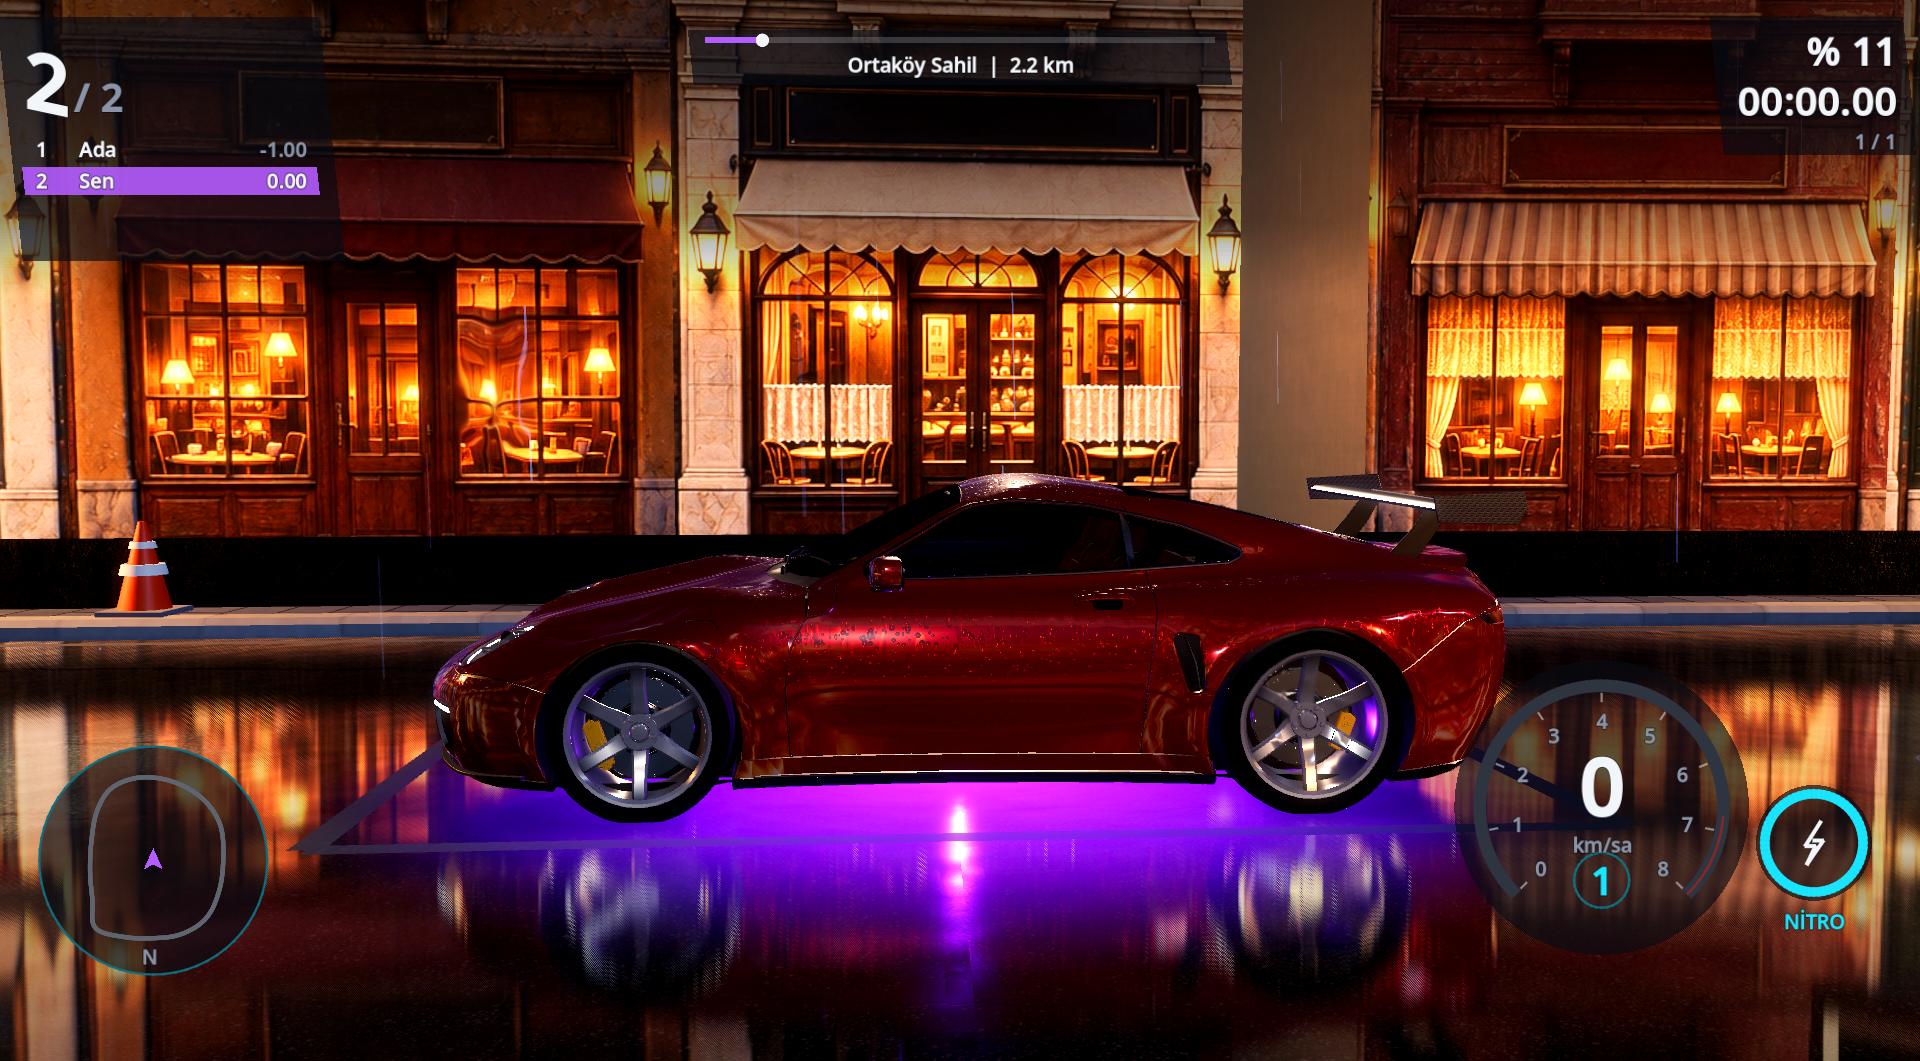
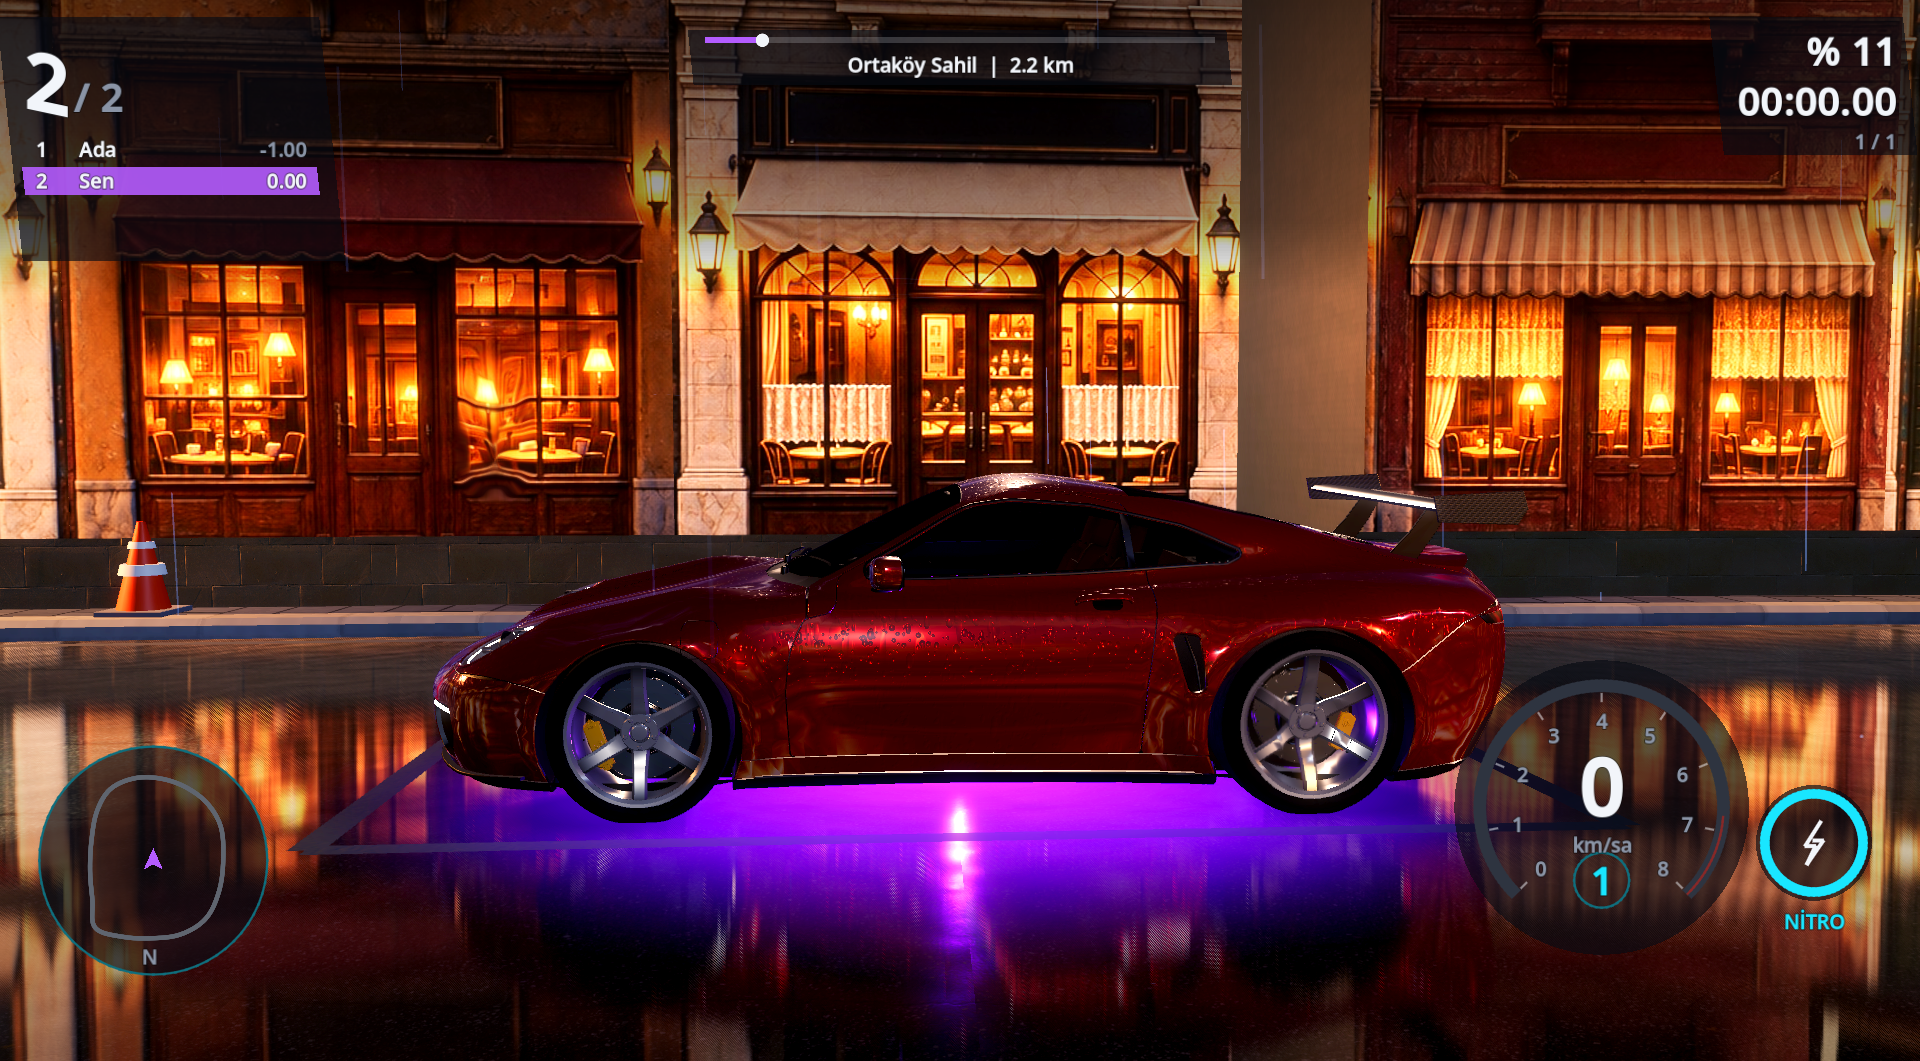
Online re-verified on the merged RC (smoke PASS, rendered client: both cars finished); release candidate report updated

diff --git a/docs/status/RELEASE_CANDIDATE_2026-11-28.md b/docs/status/RELEASE_CANDIDATE_2026-11-28.md
@@ -1,41 +1,55 @@
 # Release candidate 2026-11-28 (overnight)
 
-Branch: `release/rc-2026-11-28` (from `feature/vertical-slice` a4c30a1). Integration PR: see the PR link in the
-handoff. main untouched; no branch deleted; no force-push; ChatGPT branches untouched (PR #8 merged once, here only).
-Machine for every number below: dev PC, Windows 11, NVIDIA RTX 5060 Ti 8 GB, Godot 4.7.2 Mobile renderer. No iPhone
-was measured tonight: no number here is a phone number, and "App Store ready" is not claimed.
+Branch: `release/rc-2026-11-28` (from `feature/vertical-slice` a4c30a1). Integration PR:
+https://github.com/berkdemirokk/midnight-syndicate/pull/9 (draft, base feature/vertical-slice). main untouched; no branch
+deleted; no force-push; ChatGPT branches untouched (PR #8 merged once, here only).
+Machine for every number below: dev PC, Windows 11, NVIDIA RTX 5060 Ti 8 GB, Godot 4.7.2 Mobile renderer. No iPhone was
+measured tonight: no number here is a phone number, and "App Store ready" is NOT claimed.
+
+How the work was done: the lead (Opus 5.5) planned, did the lighting/sky/road pass itself and integrated. Every other
+change was a work package built by a Haiku 5.5 worker in its own git worktree, reviewed by an independent Haiku reviewer,
+then by an Opus lead reviewer (who re-ran tests and captures and fixed what they found), then merged by the lead. A final
+independent release review (5 finders + adversarial verifiers) found 7 real defects; all 7 were fixed before 05:00.
 
 ## What changed tonight
 | area | what | verified by |
 |---|---|---|
 | Integration | PR #8 (30 events, save safety, AI recovery, garage upgrades, time-trial economy, pursuit rules, CI evidence) merged once | 355 tests, 0 failed after the merge; PR #8 CI green |
-| Lighting | day/sunset: ACES white 6, afternoon sun 34 deg, 2-split sun shadow, real depth fog with aerial haze on the far shore, clear sky, street-dark ground half of the sky (no blue rims), warm car fill/rim, day fill direction bug fixed, mild grade | ortakoy_benchmark captures, before/after sheets |
-| Road | dry asphalt specular per hour (no blue sheen), roughness follows the macro tone, wet road in metre-scale patches with a softer mirror, mirror blur 9 -> 5 taps, kerb/sidewalk wet film and specular per hour, paint on the asphalt grain | captures day/sunset/night |
-| Cars | neutral rims (metal 0.75), tyre sheen, street panorama in the paint per hour | bench_*_car34 |
-| Architecture | photo rows: tangents, textured party walls and tile roofs, 0.8 m eaves with soffit and fascia, glass gloss, bridge day colours, plaster tone | bench_day_street / hero |
-| Camera | long-lens finish/grid orbit, horizontal FOV cap for wide phones, nitro punch (kick-back, FOV punch, blur burst), blur early-out | test_driver_camera, nitro capture |
-| AI | queued cars are not "stuck", recovery frees after 2 m either way, follow brake | telemetry matrix before/after (stuck 114 -> 66, teleports 76 -> 30, unfinished 11 -> 2) |
-| Online (experimental, off) | LAN race: lobby, ready, shared countdown, 20 Hz state, interpolation, server-authoritative laps/results, disconnect DNF, Bosphorus track, live standings, TR/EN | 3-process smoke + rendered in-game check |
-| Pursuit (experimental, off) | opt-in police mode: heat 1-5, police spawn/despawn, chase AI, roadblock with an open lane, bust/escape, HUD | 15 tests + pursuit_demo captures |
-| Performance | mirror diet (no glow/tonemap/shadow atlas/MSAA in the mirror), probes off on Low, shadow filter per preset, Medium FXAA | GPU_PASS_2026-11-28.md |
-| UX | (see below) | |
+| Lighting | day/sunset: ACES white 6, afternoon sun 34 deg, 2-split sun shadow, depth fog with haze on the far shore, clear sky, street-dark lower sky (no blue rims), warm car fill/rim, day fill direction bug fixed, arcade grade | evidence/screens/before_after_2026-11-28 |
+| Road | dry asphalt specular per hour, roughness from the macro tone, wet road in metre-scale patches with a softer mirror, mirror blur 9 -> 5 taps, kerb wet film, paint on the asphalt grain, stone plinth instead of a bare grey barrier (Bogaz rebuilt) | captures day/sunset/night |
+| Architecture | photo rows: tangents, textured party walls (desaturated plaster) and tile roofs, 0.8 m eaves with soffit/fascia, glass gloss, bridge day colours; smooth mosque dome normals | bench_day_street/hero/mosque |
+| Cars | neutral rims, tyre sheen, street panorama in the paint per hour; validation of all 11 cars: see CAR_VALIDATION_2026-11-28.md if merged | bench_*_car34 |
+| Camera | Asphalt-style lower chase framing (after a night mirror primitive diet), long-lens orbit, horizontal FOV cap, nitro punch | test_driver_camera, captures |
+| AI | queued cars not "stuck", 2 m recovery either way, follow brake | telemetry: stuck 114 -> 66, teleports 76 -> 30, unfinished 11 -> 2 |
+| Modes | drift (2 events) and elimination (2 events) | test_modes, mode captures |
+| Pursuit | opt-in police mode; career event "Boğaz kaçışı" (bust = no reward); chase stops at the finish; no pause after bust | test_pursuit_mode, test_escape_event, captures |
+| Online (experimental, off) | LAN race: lobby with 6-char join code, ready, countdown, 20 Hz sync, interpolation, server-authoritative laps/results, disconnect DNF, Bosphorus track, live standings, TR/EN, rate limit, hello deadline | net_smoke (real processes) + rendered in-game check |
+| Player experience | first-run onboarding (OS language, controls, 3 hints), records screen, touch pause/restart/reset + auto-pause, 88 px garage targets, TR touch labels, TR/EN fixes | tests + ui captures |
+| Economy | reward table x4: owning everything = 1.79 full 3-star careers (was 7.17) | tools/economy_sim.py, ECONOMY_2026-11-28.md |
+| Save | backup failure no longer drops the save; cross-process restart check incl. crash during save | tools/restart_check.py, SAVE_PERSISTENCE.md |
+| Performance | mirror diet, probes off on Low, shadow filter per preset, Medium FXAA; soak (10 headless + 8 rendered races) shows no drift after the first race | GPU_PASS, NIGHT_DIET, SOAK docs |
+| iOS | compile check ios-check-5 passed on GitHub Actions (build only, no upload) | run 46086560575 |
 
-## Not done / known limitations
-- Race-start hitch not fixed (warm-up attempt showed no real reduction; docs/perf/START_HITCH.md).
-- Asphalt-style lower chase framing not landed: it breaks the night primitive budget (see night diet result below).
-- Online is LAN/loopback only, not internet multiplayer; the host is a dedicated server process; no auth/encryption.
-- Pursuit barriers and light bar are simple; police AI tuned only in sim.
-- No iPhone measurement, no iOS build tonight.
+## Not done / release blockers (honest list)
+- 30 vehicles: 11 ship. More need the owner's approval to download licensed models (CLAUDE.md) or days of modelling.
+- Real-device test: none (needs the owner's iPhone, B1/B2). No phone frame time, heat or memory number exists.
+- App Store submission: owner-only steps and decisions (price, bundle id, age rating, screenshots on device).
+- Internet multiplayer: LAN/loopback only; no free authorised hosting; no accounts, no encryption, no global ranking.
+- Race-start/periodic frame spikes: start window clean in tests (0 frames > 25 ms in 5 s after GO), a ~40 s spike unexplained unless round 11 found it.
+- Sound never judged by ear; drift/elimination thresholds and the economy need a human playtest; mode events sit at the end of the ladder.
+- Quality versus Asphalt/NFS: clearly better than last night on the same camera, still behind the references (stylised licensed cars, photo facades flat at grazing angles, no global illumination).
 
 ## Build and test
 - Tests: `godot --headless --audio-driver Dummy --fixed-fps 60 --path game -s res://tests/run_tests.gd`
 - Evidence check: `py -3.10 tools/verify_test_evidence.py evidence/test_results.json`
 - Assets: `py -3.10 tools/asset_factory.py validate`
 - Benchmark captures: `godot --path game --audio-driver Dummy --resolution 1920x1080 --position 20000,0 res://devtools/capture_boot.tscn -- --capture=ortakoy_benchmark`
-- Online: `py -3.10 tools/net_smoke.py` and `py -3.10 tools/net_ingame_check.py` (start the game with `-- --experimental-online` to see the menu entry)
+- Online: `py -3.10 tools/net_smoke.py`, `py -3.10 tools/net_ingame_check.py` (menu entry: start with `-- --experimental-online`)
+- Restart/persistence: `py -3.10 tools/restart_check.py`; economy: `py -3.10 tools/economy_sim.py`
 - Before/after: `py -3.10 tools/before_after.py <before_dir> evidence/screens/ortakoy_benchmark evidence/screens/before_after_2026-11-28`
+- iOS compile check: push a tag `ios-check-N` (build only); `ios-release-N` uploads to TestFlight and stays owner-only.
 
 ## Licensing
-No third-party asset was downloaded tonight. Every texture and model used is already recorded in ASSET_MANIFEST.json
-and THIRD_PARTY_LICENSES.md (CC0 clay plaster and roof tiles, licensed cars). No real brands, no logos, fictional
-police livery.
+No third-party asset was downloaded tonight. Every texture and model used was already recorded in ASSET_MANIFEST.json and
+THIRD_PARTY_LICENSES.md (CC0 clay plaster, roof tiles, sandstone; licensed CC BY cars; event barrier kit is project-made).
+Asset manifest validate: 657 records, 0 failing. No real brands, no logos, fictional police livery.
